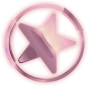
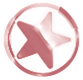
feat(page) : homepage 이미지 수정 및 스크롤 구현

diff --git a/src/main/resources/static/css/home-page.css b/src/main/resources/static/css/home-page.css
@@ -15,98 +15,6 @@ a {
     color: black;
 }
 
-
-header {
-    display: flex;
-    padding-right: 30px;
-    background: white;
-    position: fixed;
-    width: 100%;
-    filter:drop-shadow(0 1px 3px dodgerblue);
-}
-header h2 {
-    flex: 1;
-}
-header h2 a {
-    width: 200px;
-    height: 40px;
-    display: block;
-}
-/* 로고 */
-header img {
-    margin-top: 5px;
-    margin-left: 300px;
-}
-
-/* 로그인 */
-header li:first-child a {
-    font-weight: 600;
-    color: #777;
-}
-header li:nth-child(2) a {
-    font-weight: 600;
-    color: #777;
-}
-header li:first-child a:hover {
-    font-weight: bold;
-    color: #000000;
-}
-header li:nth-child(2) a:hover {
-    font-weight: bold;
-    color: #000000;
-}
-/* 메뉴 화살표 */
-header li span {
-    margin-bottom: 5px;
-}
-
-/*메뉴*/
-header ul {
-    flex: 0.3;
-    list-style: none;
-    display: flex;
-    padding-top: 2px;
-    width: 200px;
-}
-header li { flex: 2; position: relative;}
-header span { margin-top: 7px; display: inline-block; }
-
-/*메인메뉴*/
-a.mainMenu {
-    color: #777;
-    font-size: 1rem;
-    font-weight: 600;
-    display: block;
-    padding: 6px;
-    text-align: center;
-}
-a.mainMenu:hover, a.mainMenu.act { color: #464646; }
-
-/*서브메뉴*/
-header nav {
-    background: #f9f9f9;
-    top: 35px;
-    position: absolute;
-    width: 100%;
-    display: none;
-    z-index: 10;
-    border-bottom-left-radius: 10px;
-    border-bottom-right-radius: 10px;
-}
-
-header nav a {
-
-    display: block;
-    padding: 4px;
-    text-align: center;
-}
-
-header nav a:hover {
-    background: #e1e1e1;
-    font-weight: bold;
-    color: #000000;
-}
-
 /*홈(sec1),(sec2),(sec3)*/
 #sec1 > div {
     max-width: 800px;
@@ -152,10 +60,12 @@ p {
 }
 
 #sec2 img {
-    width: 100vw;
-    height: 100%;
+    width: 100%;
+    overflow-x: hidden;
+    height: 100vh;
 }
 #sec3 img {
-    width: 100vw;
-    height: 100%;
+    width: 100%;
+    overflow-x: hidden;
+    height: 100vh;
 }

diff --git a/src/main/resources/static/js/scroll.js b/src/main/resources/static/js/scroll.js
@@ -1,0 +1,27 @@
+document.addEventListener('DOMContentLoaded', function() {
+    const main = document.querySelector('main');
+    let isScrolling = false;
+
+    function smoothScroll(target) {
+        if (isScrolling) return;
+        isScrolling = true;
+        target.scrollIntoView({
+            behavior: 'smooth'
+        });
+        setTimeout(() => {
+            isScrolling = false;
+        }, 1000); // 스크롤 애니메이션 시간과 일치시킵니다.
+    }
+
+    main.addEventListener('wheel', function(e) {
+        e.preventDefault();
+        const delta = e.deltaY;
+        const currentSection = document.elementFromPoint(window.innerWidth / 2, window.innerHeight / 2).closest('section');
+
+        if (delta > 0 && currentSection.nextElementSibling) {
+            smoothScroll(currentSection.nextElementSibling);
+        } else if (delta < 0 && currentSection.previousElementSibling) {
+            smoothScroll(currentSection.previousElementSibling);
+        }
+    }, { passive: false });
+});

diff --git a/src/main/resources/templates/index.html b/src/main/resources/templates/index.html
@@ -10,6 +10,7 @@
     <link rel="stylesheet" href="/css/home-page.css">
     <script src="https://code.jquery.com/jquery-3.6.0.min.js"></script>
     <script src="/js/main.js"></script>
+    <script src="/js/scroll.js"></script>
 </head>
 <body>
 <div id="layout">
@@ -29,13 +30,13 @@
 
     <section id="sec2"> <!-- 홈 화면2 -->
         <div>
-            <h2><img src="/images/home-2.png" alt="홈화면2"></h2>
+            <h2><img src="/images/home-2-2.png" alt="홈화면2"></h2>
         </div>
     </section>
 
     <section id="sec3"> <!-- 홈 화면2 -->
         <div>
-            <h2><img src="/images/home-3.png" alt="홈화면3"></h2>
+            <h2><img src="/images/home-3-2.png" alt="홈화면3"></h2>
         </div>
     </section>
 
